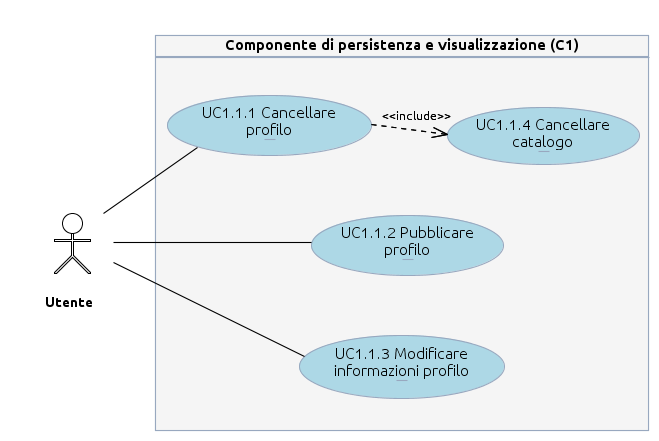
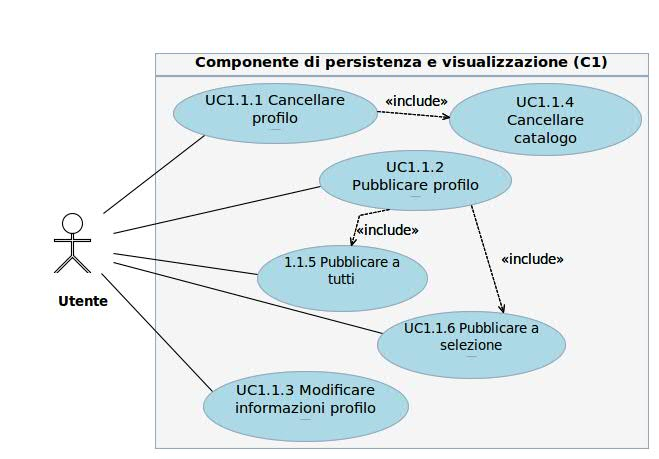
FIX - UC1_1.png, AnalisiDeiRequisiti.tex - Correzione secondo esiti di RP.

diff --git a/AnalisiDeiRequisiti.tex b/AnalisiDeiRequisiti.tex
@@ -33,6 +33,10 @@ VT.G \\
 \hline
 \endfoot
 
+10/02/2011 & 2.1 & Baron Federico & Correzione in seguito a esiti RP. Aggiunti
+UC1.1.5 e UC1.1.6.
+\\
+\hline
 24/01/2011 & 2.0 & Daminato Simone & Validazione per consegna RP.
 \\
 \hline
@@ -227,10 +231,12 @@ componente di persistenza e visualizzazione.}
 \vspace*{0.5cm}
 \bo{Use case UC1: Sistema NetMus, componente di persistenza e visualizzazione}\\\\ 
 \bo{Attori primari:} Utente. \\\\
-\bo{Pre-condizioni:} Il portale \`e attivo e l'utente, connesso ad internet, vi
-accede tramite un browser. \\\\ 
+\bo{Pre-condizioni:} Il portale \`e attivo e l'utente, connesso ad internet,
+vi accede tramite un browser. Netmus, per l'utente che ha appena effettuato
+l'accesso, si trova nello stato di partenza di default . \\\\
 \bo{Post-condizioni:} Il portale NetMus \`e attivo, ha soddisfatto tutte le
-richieste dell'utente ed \`e pronto a soddisfarne altre. \\\\ 
+richieste dell'utente ed \`e pronto a soddisfarne altre. Il sistema si trova
+in uno degli stati possibili dopo aver effettuato il login. \\\\
 \bo{Scenario principale:} 
 \begin{enumerate}
   \item L'utente effettua l'autenticazione (UC1.4).
@@ -252,7 +258,7 @@ richieste dell'utente ed \`e pronto a soddisfarne altre. \\\\
 \end{itemize}
 \newpage
 
-\section{UC2 - Sistema NetMus, componente di recupero delle informazioni}
+\section{UC2 - Sistema NetMus, recupero delle informazioni}
 
 \begin{figure}[h]
   \centering
@@ -262,7 +268,7 @@ componente di recupero delle informazioni.}
 \end{figure}
 
 \vspace*{0.5cm}
-\bo{Use case UC2: Sistema NetMus, componente di recupero delle informazioni}\\\\
+\bo{Use case UC2: Sistema NetMus, recupero delle informazioni}\\\\
 \bo{Attori primari:} Utente \\\\
 \bo{Pre-condizioni:} Il portale \`e attivo e l'utente, connesso ad internet, vi
 accede tramite un browser. \\\\ 
@@ -341,20 +347,20 @@ all'utente per quanto riguarda la gestione del proprio profilo personale.}
 \vspace*{0.5cm}
 \bo{Use case UC1.1: Gestione del profilo personale} \\\\
 \bo{Attori primari:} Utente. \\\\
-\bo{Pre-condizioni:} Il portale \`e attivo ed ha in memoria, pronti all'utilizzo,
-i dati relativi all'utente che si \`e autenticato.  \\\\ 
-\bo{Post-condizioni:} L'utente ha effettuato tutte le operazioni desiderate con
-successo. Il sistema ha salvato tutte le modifiche richieste. \\\\
+\bo{Pre-condizioni:} Il portale \`e attivo e si trova nella pagina di
+gestione profilo richiesta dall'utente che si \`e autenticato. \\\\
+\bo{Post-condizioni:} L'utente ha effettuato tutte le operazioni desiderate con successo. Il sistema ha salvato tutte le modifiche richieste. \\\\
 \bo{Scenario principale:} 
 \begin{enumerate}
   \item L'utente naviga all'interno della pagina di gestione del proprio profilo
   (UC1.1) in cui pu\`o accedere a tutte le informazioni personali salvate da
   NetMus che lo riguardano.
   \item L'utente fa alcune operazioni consentite come modificare alcuni
-  dati (UC1.1.3), rendere visibile a tutti il proprio profilo e di conseguenza
-  il proprio catalogo (UC1.1.2) oppure ha la possibilit\`a di cancellare la
-  propria registrazione e rinunciare al servizio offerto da NetMus perdendo le
-  informazioni raccolte fino a quel momento (UC1.1.1, UC1.1.4).
+  dati (UC1.1.3), rendere visibile a tutti o ad alcuni utenti selezionati il
+  proprio profilo e di conseguenza il proprio catalogo (UC1.1.2, UC1.1.5,
+  UC1.1.6) oppure ha la possibilit\`a di cancellare la propria registrazione e
+  rinunciare al servizio offerto da NetMus perdendo le informazioni raccolte
+  fino a quel momento (UC1.1.1, UC1.1.4).
   \item Tutte le operazioni richieste dall'utente vengono eseguite in tempo
   utile dal server.
 \end{enumerate}
@@ -483,8 +489,8 @@ database di NetMus.}
 \vspace*{0.5cm}
 \bo{Use case UC2.2: Inviare nuovi brani}\\\\
 \bo{Attori primari:} Utente. \\\\ 
-\bo{Pre-condizioni:} La componente 2 del sistema NetMus \`e attiva poich\'e acceduta
-dall'utente, quest'ultimo \`e autenticato. \\\\
+\bo{Pre-condizioni:} La componente 2 del sistema NetMus \`e attiva poich\'e
+attivata dall'utente, quest'ultimo \`e autenticato. \\\\
 \bo{Post-condizioni:} La componente 2 \`e ancora attiva e l'utente \`e pronto a
 compiere qualsiasi altra operazione consentita dal sistema. Le nuove
 informazioni reperite sono state tutte inviate al database di NetMus.\\\\
@@ -666,8 +672,9 @@ permanente eliminando dal database ogni sua informazione.
 \bo{Richiesta:} desiderabile \\
 \bo{Fonte:} interna \\
 Per interagire con gli altri sar\`a necessario pubblicare il proprio profilo e
-di conseguenza la propria libreria di canzoni rendendo visibile a tutti ci\`o che
-contengono.
+di conseguenza la propria libreria di canzoni rendendo visibile ad altri
+utenti ci\`o che contengono. Per garantire un livello di privacy basilare sar\`a
+possibile decidere a quali utenti rendere visibile il profilo.
 
 \subsubsection*{Riproduzione tracce in streaming}
 \bo{Id:} C1FD-1.5 \\
@@ -1491,7 +1498,9 @@ C1FN-1.4.2 Cambio password & UC1.1.3 - Modificare informazioni
 profilo \\ \hline
 C1FN-1.4.3 Cancellazione del proprio account & UC1.1.1 - Cancellare profilo \\
 & UC1.1.4 - Cancellare catalogo \\ \hline
-C1FD-1.4.4 Pubblicazione & UC1.1.2 - Pubblicare profilo \\ \hline
+C1FD-1.4.4 Pubblicazione profilo & UC1.1.2 - Pubblicare profilo \\
+& UC1.1.5 - Pubblicare a tutti \\
+& UC1.1.6 - Pubblicare a selezione \\ \hline
 C1FD-1.5 Riproduzione tracce in streaming & UC1.3.3.2 - Player YouTube \\ \hline
 C1FD-1.7 Interazione con altri utenti & UC1.2 - Interagire con altri cataloghi
 \\ \hline 
@@ -1539,7 +1548,9 @@ UC1.1 - Gestire profilo personale & C1FN-1.4 Gestione profilo personale \\
 \hline
 UC1.1.1 - Cancellare profilo & C1FN-1.4.3 Cancellazione del proprio account \\
 \hline
-UC1.1.2 - Pubblicare profilo & C1FD-1.4.4 Pubblicazione \\ \hline
+UC1.1.2 - Pubblicare profilo & C1FD-1.4.4 Pubblicare profilo \\ \hline
+UC1.1.5 - Pubblicare a tutti & C1FD-1.4.4 Pubblicare profilo \\ \hline
+UC1.1.6 - Pubblicare a selezione & C1FD-1.4.4 Pubblicare profilo \\ \hline
 UC1.1.3 - Modificare informazioni profilo & C1FN-1.4.1 Modifica informazioni
 personali \\ 
 & C1FN-1.4.2 Cambio password \\ \hline
